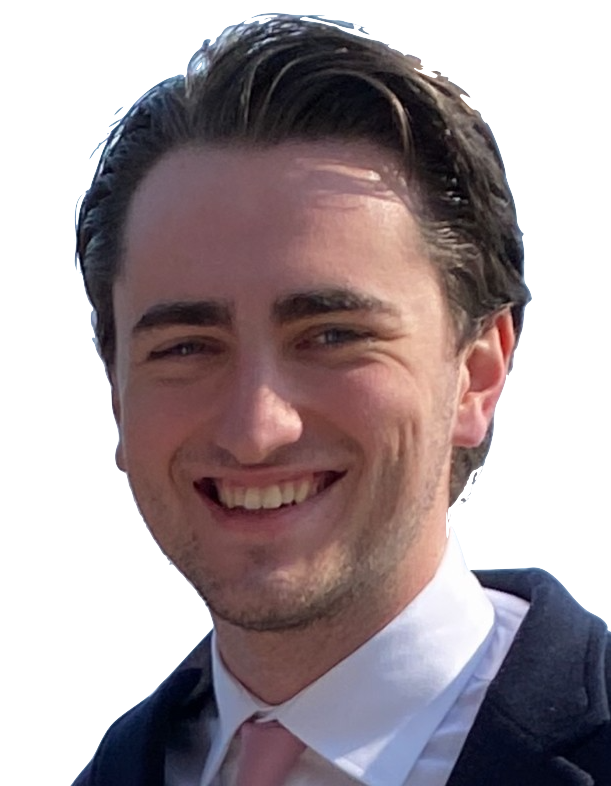
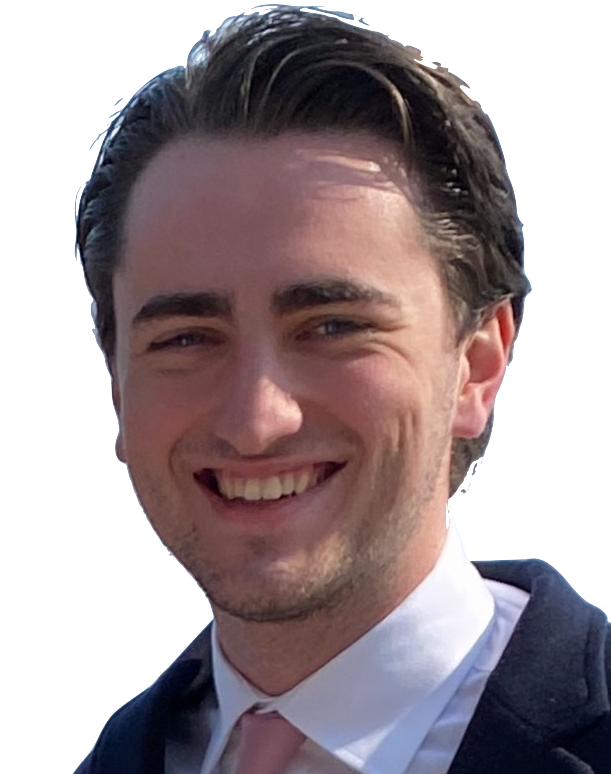
fix image

diff --git a/index.html b/index.html
@@ -37,7 +37,7 @@
                     </button>
                 </nav>
                 <div>
-                    <a href="#contact" class="btn btn-white">My Resume</a>
+                    <a a href="pdf/MatthewMcNeiveResume.pdf" target="_blank" class="btn btn-white">My Resume</a>
                 </div>
 
             </div>
@@ -83,15 +83,15 @@
                 </div>
                 <div class="about-content">
                     <p class="about-descr">
-                        I am lorem ipsum dolor sit amet consectetur adipisicing elit. Nemo
-                        ipsam quod nisi voluptatum voluptates asperiores dolorum eos nobis
-                        earum, illo et, in eum rem non ratione vel delectus voluptas
-                        distinctio. Magni ad iusto reiciendis fugiat nesciunt porro optio
-                        odit, voluptatem repellendus aut excepturi eveniet maxime eligendi
-                        officiis illo quo minima. <br />
-                        <br />
-                        Totam, error. Nemo sed perspiciatis architecto quidem sit odit?
-                        Laboriosam.
+                        I am a software engineer at ABN ABRO Clearing USA with over two years of 
+                        professional exoperiance in the industry. In this role, I have been working
+                        as a backend engineer developing software to process stock trade messages
+                        from our clients. The tools and technologies I have used extensively include
+                        Java, C#, Spring Framework, Linux, Kafka, and Docker. The contributions I have
+                        made in my time have helped allow our software to process an average of 15 million 
+                        messages per day, with some high volume days reaching up to over 40 million.
+                        We do business with some of the largest exchanges in the US, such as Nasdaq 
+                        and CBOE who have come to depend on the performance of our software.
                     </p>
                 </div>
             </div>
@@ -118,15 +118,19 @@
                 </div>
                 <div class="about-content">
                     <p class="about-descr">
-                        I am lorem ipsum dolor sit amet consectetur adipisicing elit. Nemo
-                        ipsam quod nisi voluptatum voluptates asperiores dolorum eos nobis
-                        earum, illo et, in eum rem non ratione vel delectus voluptas
-                        distinctio. Magni ad iusto reiciendis fugiat nesciunt porro optio
-                        odit, voluptatem repellendus aut excepturi eveniet maxime eligendi
-                        officiis illo quo minima. <br />
-                        <br />
-                        Totam, error. Nemo sed perspiciatis architecto quidem sit odit?
-                        Laboriosam.
+                        I completed my undergratuate degree from Loyola University Chicgago with a 
+                        BS in Software Engineering. During my time at Loyola, I took many influential
+                        and practical courses such as Data Structures & Algorithms, Advanced Algorithms,
+                        and Natural Language Processing. I graduated with a GPA of 3.88 which awarded
+                        me with an award from the computer science dapartment: The Turing High Achievement 
+                        Award. his award is typically given to the top graduating student in each specialization 
+                        area within computer science. Selection is by the election of department faculty from 
+                        among those with the highest GPAs in computer science courses.  </p></br>
+                    <p class="about-descr">
+                        I have returned to Loyola to pursue an MBA with a concentration in Finance and I am
+                        expected to graduated in January 2025. This degree will give me a formal education
+                        in the business world and give me the ability to more easily shift into a position
+                        in IT management.
                     </p>
                 </div>
             </div>
@@ -233,11 +237,11 @@
                     </a>
                 </div>
                 <div class="project-box">
-                    <a href="https://github.com/m-mcneive/marktext">
-                        <img class="project-img" src="img/works/marktext.png" alt="" />
+                    <a href="https://github.com/m-mcneive/Portfolio">
+                        <img class="project-img" src="img/works/portfolio.png" alt="" />
                         <div class="project-mask">
                             <div class="project-caption">
-                                <h5 class="white">Marktext - Open Source Contribution</h5>
+                                <h5 class="white">Portfolio</h5>
                             </div>
                         </div>
                     </a>

diff --git a/css/styles.css b/css/styles.css
@@ -205,11 +205,13 @@ body {
     height: auto;
     vertical-align: bottom;
     height: 45rem;
+    width: 45rem;
     border:7px solid var(--secondary-accent);;
-    border-radius: 500px;
+    border-radius: 50%;
     -webkit-border-radius: 500px;
     -moz-border-radius: 500px;
     margin: 5rem;
+    padding: 0 4rem;
 }
 
 
@@ -222,7 +224,7 @@ body {
     justify-content: center;
     align-items: center;
     column-gap: 2rem;
-    margin: 4rem 0 4rem;
+    margin: 2rem 0 4rem;
 }
 
 .resume {
@@ -235,8 +237,8 @@ body {
 }
 
 .social-links-row a {
-    height: 2.4rem;
-    width: 2.4rem;
+    height: 3rem;
+    width: 3rem;
     filter: invert(35%) sepia(11%) saturate(160%) hue-rotate(145deg) brightness(88%) contrast(80%);
     transition: all 0.3s ease-in-out;
 }
@@ -252,11 +254,11 @@ body {
 
 /* About section */
 .about {
-    padding: 10rem 0;
+    padding: 6rem 0;
 }
 
 .about-title {
-        margin-bottom: 4rem;
+    margin-bottom: 4rem;
 }
 
 .about-row {
@@ -316,7 +318,7 @@ body {
 
   /* Works */
 .projects {
-    padding: 10rem 0;
+    padding: 6rem 0;
     background-color: var(--primary-bg-color);
   }
   
@@ -401,7 +403,7 @@ body {
 
   /* Contact */
 .contact {
-    padding: 10rem 0;
+    padding: rem 0;
     text-align: center;
   }
   
